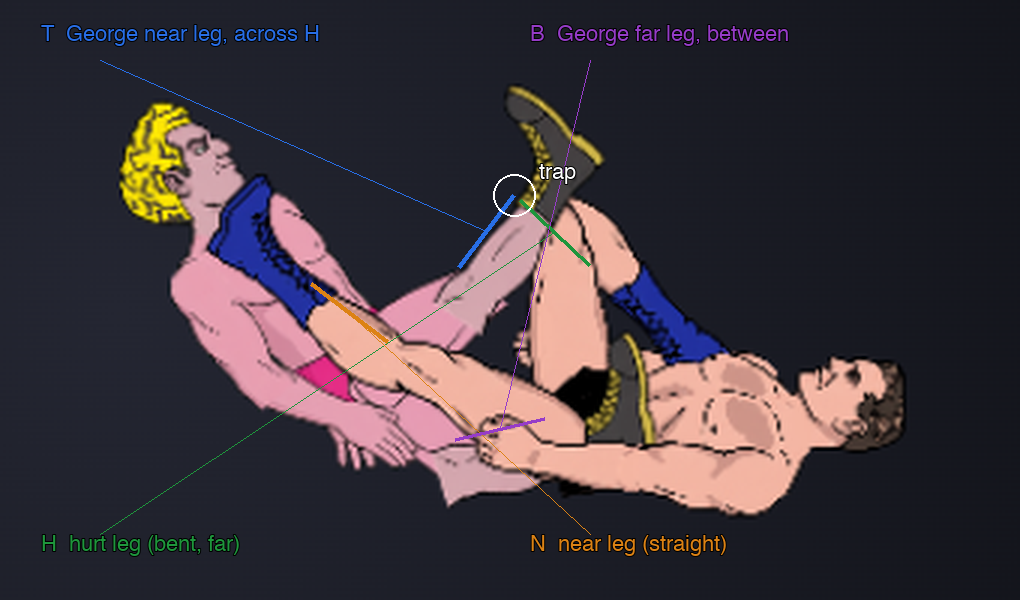
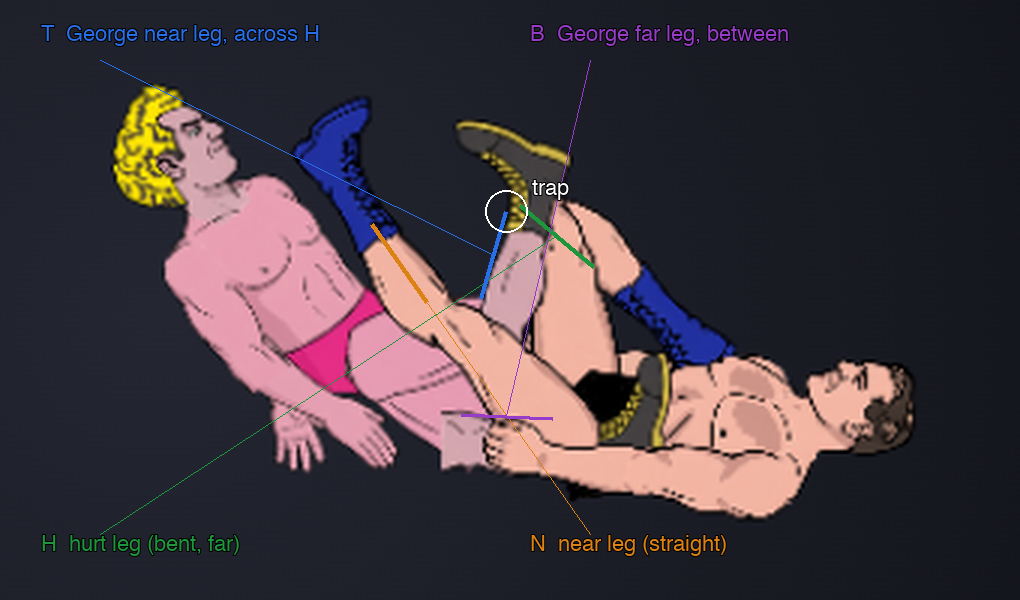
T1.2 v3: tableau honed against Flair 397/398
Legs lower and knees bent like the sprites, receiver's far leg kept raised and
bent. Trap 4.3% / brace 0.0% on Procreate Lou facing right; left-facing and roster
still fail (reported, tol not widened). Side-by-side with the sprites in g1/.

Changed region(s): [[0.0912, 0.12, 0.9118, 0.87]]

diff --git a/research/animation/figure-four-tableau/LEDGER.md b/research/animation/figure-four-tableau/LEDGER.md
@@ -214,3 +214,21 @@ and George's near leg rising across it are visible on still 1, and George sits u
 propped. B is mostly hidden behind George's lap and N, so George's "stepped between"
 leg is the hardest part to find without the label. The left-facing and roster stills
 fail the trap contact, so the legs are visibly off on those.
+
+## v3 (2026-10-23): honed against Flair's sprites
+
+Compared with Flair 397 and 398 (SNES Royal Rumble, pose reference only), side by side in
+`g1/5_vs_flair_397_398.png`. In the sprites Flair sits propped back on his near hand,
+torso roughly 45-50 degrees, hips on the mat, both knees bent with the knee up and the
+shin dropping forward to a low boot. v2 had George's near leg pointing up like a kick; v3
+searched again with his knees bent (T knee 1.0, B knee 0.7) and his ankles no more than
+70 px above his hip, tilt -0.74, arms back (rArm -0.75). The receiver's raised bent far leg
+(Bret 307-310 has the victim's legs up in the air) is kept: H knee 2.50, N hip 0.80.
+
+Critic after v3: George / Procreate Lou facing right: trap 4.3% PASS (tol 5%), brace 0.0% PASS.
+Facing left: trap 6.9% FAIL, brace 9.4% FAIL. Roster pair: trap 26.9% / 27.7% FAIL, brace 0.2% PASS.
+Joints inside limits on Procreate and roster; 756 tests green.
+
+Still unlike Flair 397/398: his near knee is bent much sharper than George's T (1.0), and the
+sprites show only one body, so the victim's leg positions are taken from Bret, not from a
+true two-man reference. Whether it reads is for Derek.
